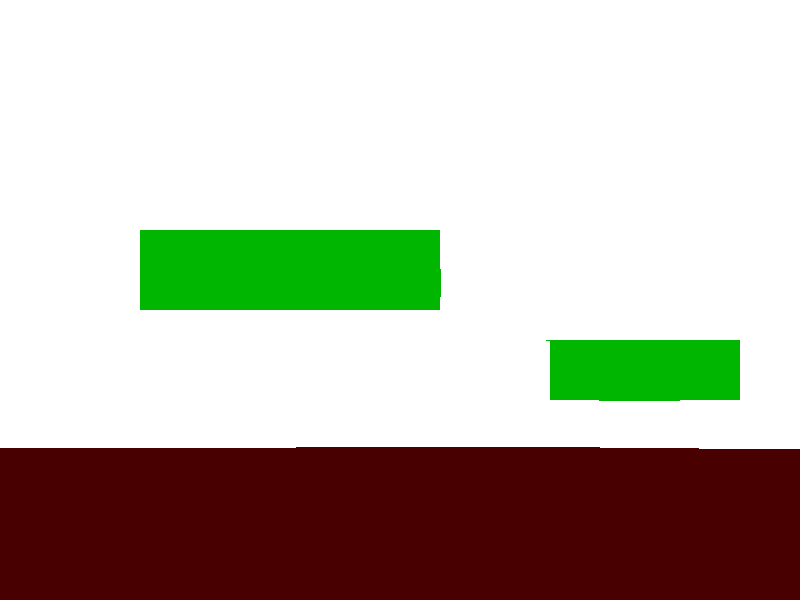
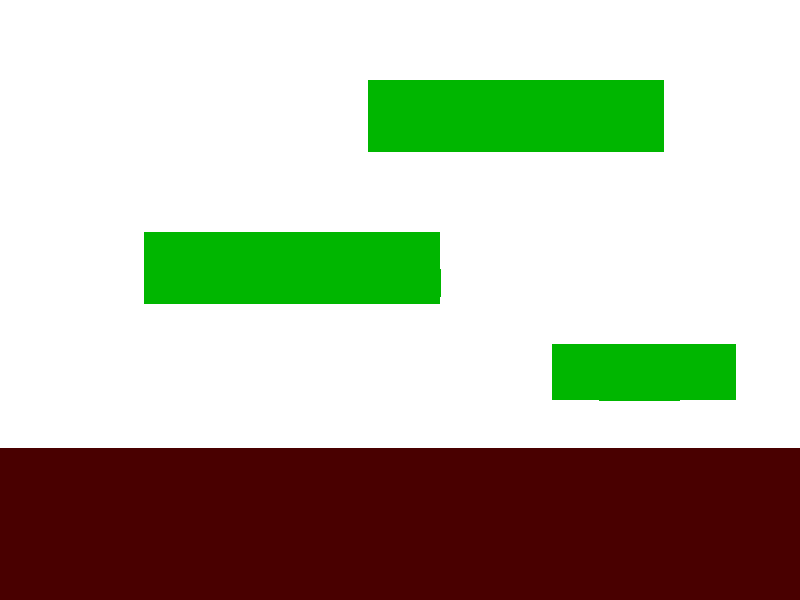
Implemented player start positions.

diff --git a/src/misc/StageManager.cpp b/src/misc/StageManager.cpp
@@ -1,6 +1,8 @@
 #include "StageManager.h"
 
-#include "pugixml.hpp"
+#include "core/system.h"
+
+#include "core/coordinator.h"
 #include <iostream>
 
 #include "globalvariables.h"
@@ -8,6 +10,8 @@
 #include <fstream>
 
 Stage main_stage;
+
+extern Coordinator gCoordinator;
 
 StageManager::StageManager()
 {
@@ -38,7 +42,7 @@ static void ProcessCollisionMap(CollisionRect* crect,uint8_t max_num_rect,const 
 			count++;
 			
 			//break loop if exceed max number
-			if(count >= 5){break;}
+			if(count >= max_num_rect){break;}
 			
 			crect++;
 		}
@@ -47,11 +51,47 @@ static void ProcessCollisionMap(CollisionRect* crect,uint8_t max_num_rect,const 
 	}
 }
 
+static void ProcessPlayerStartInfo(PlayerStart* pstart, uint8_t max_players, const char* filepath)
+{
+	std::ifstream newfile;
+	newfile.open(filepath,std::ios::in); //open a file to perform read operation using file object
+	if (newfile.is_open())
+	{   
+		
+		int x, y;
+		
+		uint8_t count = 0;
+		
+		//read file line by line for rectangle parameters
+		while (newfile >> x >> y )
+		{
+			// process rectangle parameters
+			pstart->x = x;
+			pstart->y = y;
+			pstart->player_num = count + 1; 
+			
+			count++;
+			
+			//break loop if exceed max number
+			if(count >= max_players){break;}
+			
+			pstart++;
+		}
+		
+		newfile.close();
+	}
+	else
+	{
+		std::cout << "Failed to open file in player start info!\n";
+	}
+}
+
 bool StageManager::LoadLevel(std::uint16_t level)
 {
 	//load map
 	std::string collisionMapFilePath = "";
 	std::string textureFilePath = "";
+	std::string playerStartFilePath = "";
 	
 	//set file paths
 	switch(level)
@@ -60,22 +100,25 @@ bool StageManager::LoadLevel(std::uint16_t level)
 		{  
 			collisionMapFilePath = DATADIR_STR + "/stage_assets/training_stage/training_map_collisions.txt";
 			textureFilePath = DATADIR_STR + "/stage_assets/training_stage/training_map_image.png";
+			playerStartFilePath = DATADIR_STR + "/stage_assets/training_stage/training_map_start.txt";
 			break;
 		}
 	}
 	
 	//load level based on file paths
-	if(collisionMapFilePath != "" && textureFilePath != "")
+	if(collisionMapFilePath != "" && textureFilePath != "" && playerStartFilePath != "")
 	{
-		
 		main_stage.texture = LoadTexture(textureFilePath.c_str());    // Load map texture
 		
 		uint8_t max_num_rect = 5;
 		ProcessCollisionMap(&main_stage.collision_rect_array[0],max_num_rect,collisionMapFilePath.c_str());
+		
+		uint8_t max_num_players = 8;
+		ProcessPlayerStartInfo(&main_stage.player_start_array[0],max_num_players,playerStartFilePath.c_str());
 	}
 	else
 	{
-		std::cout << "Uninitialized map file path or texture file paths.";
+		std::cout << "Uninitialized map file path or texture file paths or player start file path.";
 		return false;
 	}
 	
@@ -86,4 +129,18 @@ void StageManager::FreeCurrentLoadedLevel()
 {
 	UnloadTexture(main_stage.texture);
 	
+}
+
+void StageManager::PlacePlayersInStage(std::int8_t num_players)
+{
+	//assuming first entities have player components
+	for(int i = 0; i < num_players; i++)
+	{
+		auto& transform = gCoordinator.GetComponent<Transform2D>(i);
+		auto& collision_box = gCoordinator.GetComponent<CollisionBox>(i);
+		
+		transform.position.x = main_stage.player_start_array[i].x - collision_box.width/2;
+		transform.position.y = main_stage.player_start_array[i].y - collision_box.height;
+		
+	}
 }

diff --git a/src/misc/level_maps.h b/src/misc/level_maps.h
@@ -14,12 +14,21 @@ struct CollisionRect
 	Rectangle rect;
 };
 
+struct PlayerStart
+{
+	uint32_t player_num = 0;
+	uint32_t x = 0;
+	uint32_t y = 0;
+};
+
 struct Stage
 {
 	//holds entire 2d texture of stage
 	Texture2D texture;
 	//holds collision rectangles in stage, 5 max
 	std::array <CollisionRect,5> collision_rect_array;
+	//holds positions for 8 players
+	std::array <PlayerStart,8> player_start_array;
 };
 
 //only load and free 1 stage since only 1 stage is played at a time

diff --git a/src/main.cpp b/src/main.cpp
@@ -219,10 +219,6 @@ void logic()
 				
 			}
 			
-			//if(gControllerInput.gamepads_vec[0].button == SDL_CONTROLLER_BUTTON_A)
-			//{
-			//	moveNextState = true;
-			//}
 			
 			//if need to move to next state
 			if(moveNextState)
@@ -281,6 +277,7 @@ void logic()
 					m_game_state = GameState::FIGHT_GAME;
 				}
 				
+				gStageManager.PlacePlayersInStage(gNumPlayers);
 			}
 			
 			break;

diff --git a/src/misc/char_selector.cpp b/src/misc/char_selector.cpp
@@ -185,7 +185,14 @@ void CharacterSelector::logic()
 						);
 						
 
-				
+				//add colision box
+				gCoordinator.AddComponent(
+							*player_entities_vec.at(i),
+							CollisionBox{
+								.width = (std::uint32_t){30},
+								.height = (std::uint32_t){80}
+							}
+						);
 			}
 			
 		}

diff --git a/src/systems/RenderSystem.cpp b/src/systems/RenderSystem.cpp
@@ -65,6 +65,8 @@ void RenderSystem::Update()
 			if(renderObjectBool)
 			{
 				//DrawModelEx( render_comp.model, transform.position, (Vector3){ 1.0f, 0.0f, 0.0f }, -90.0f, (Vector3){ 1.0f, 1.0f, 1.0f }, WHITE);
+				
+				DrawTextureV(render_comp.texture, transform.position, RAYWHITE); 
 			}
 		}
 		

diff --git a/src/systems/InputReactorSystem.cpp b/src/systems/InputReactorSystem.cpp
@@ -6,7 +6,7 @@
 
 extern Coordinator gCoordinator;
 
-float speed_factor = 10.0f;
+float speed_factor = 30.0f;
 
 void InputReactorSystem::Update(ControllerInput& input)
 {

diff --git a/src/misc/StageManager.h b/src/misc/StageManager.h
@@ -14,6 +14,8 @@ public:
 	bool LoadLevel(std::uint16_t level);
 	void FreeCurrentLoadedLevel();
 	
+	void PlacePlayersInStage(std::int8_t num_players);
+	
 private:
 	
 	
